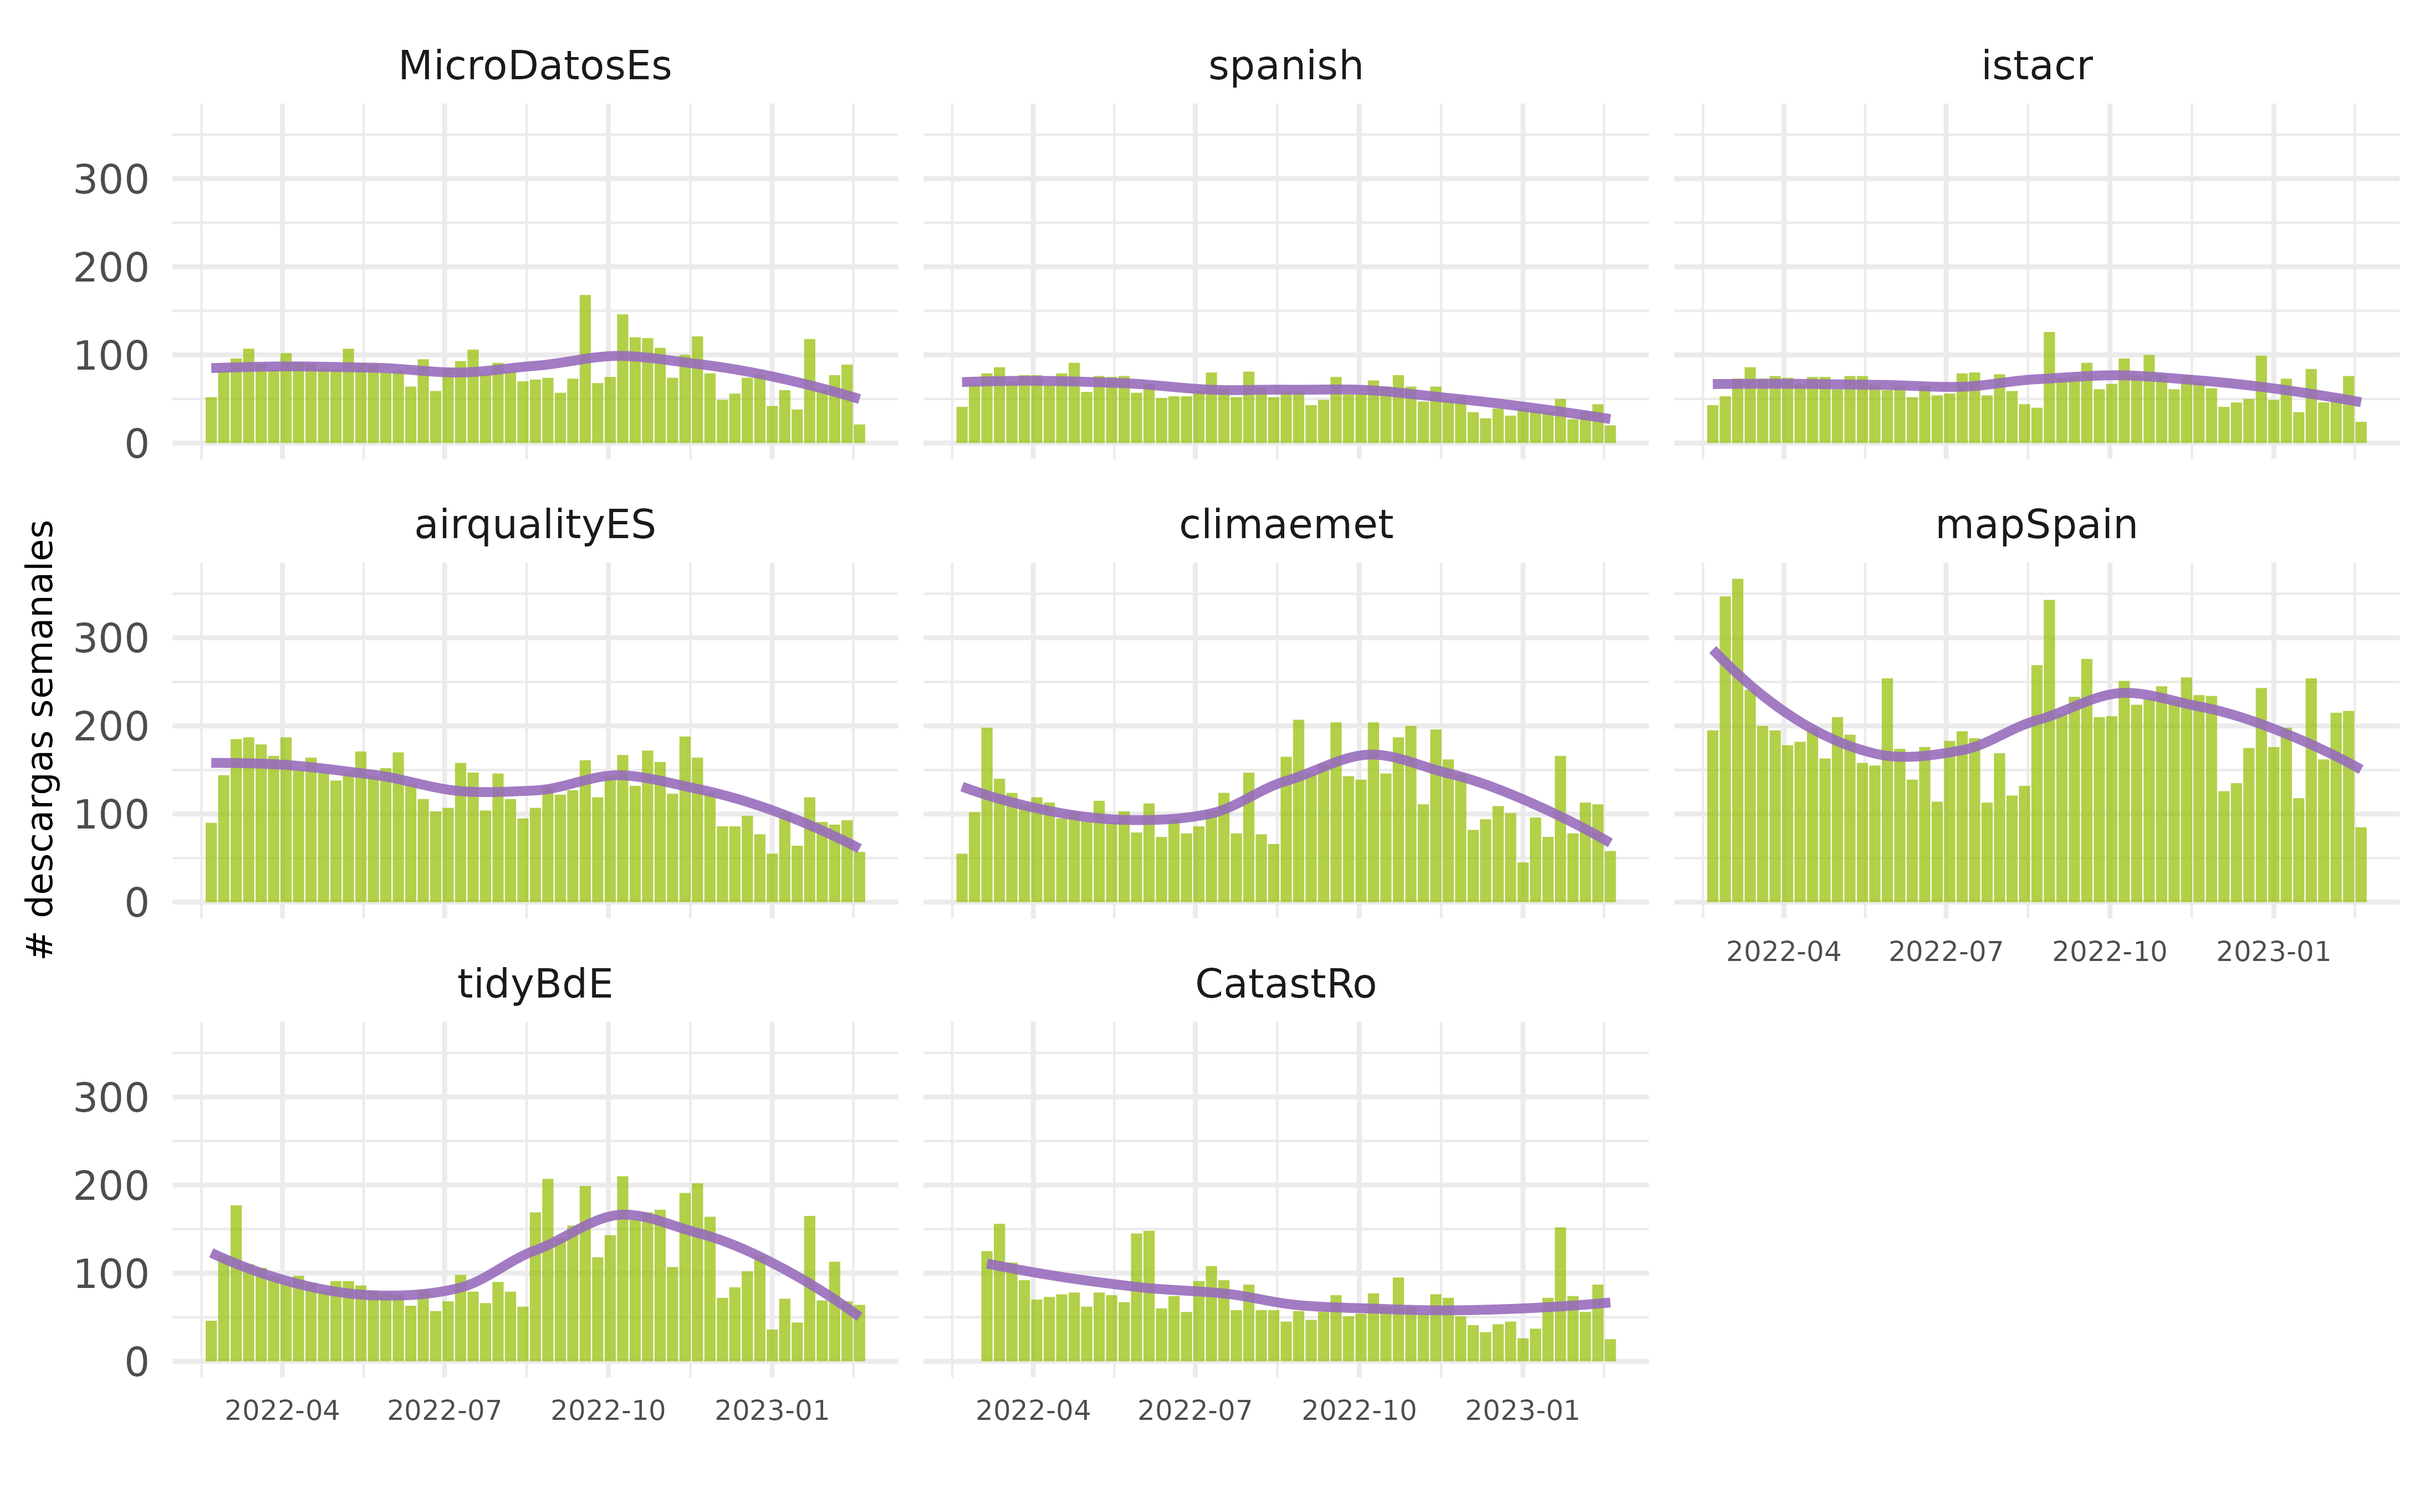
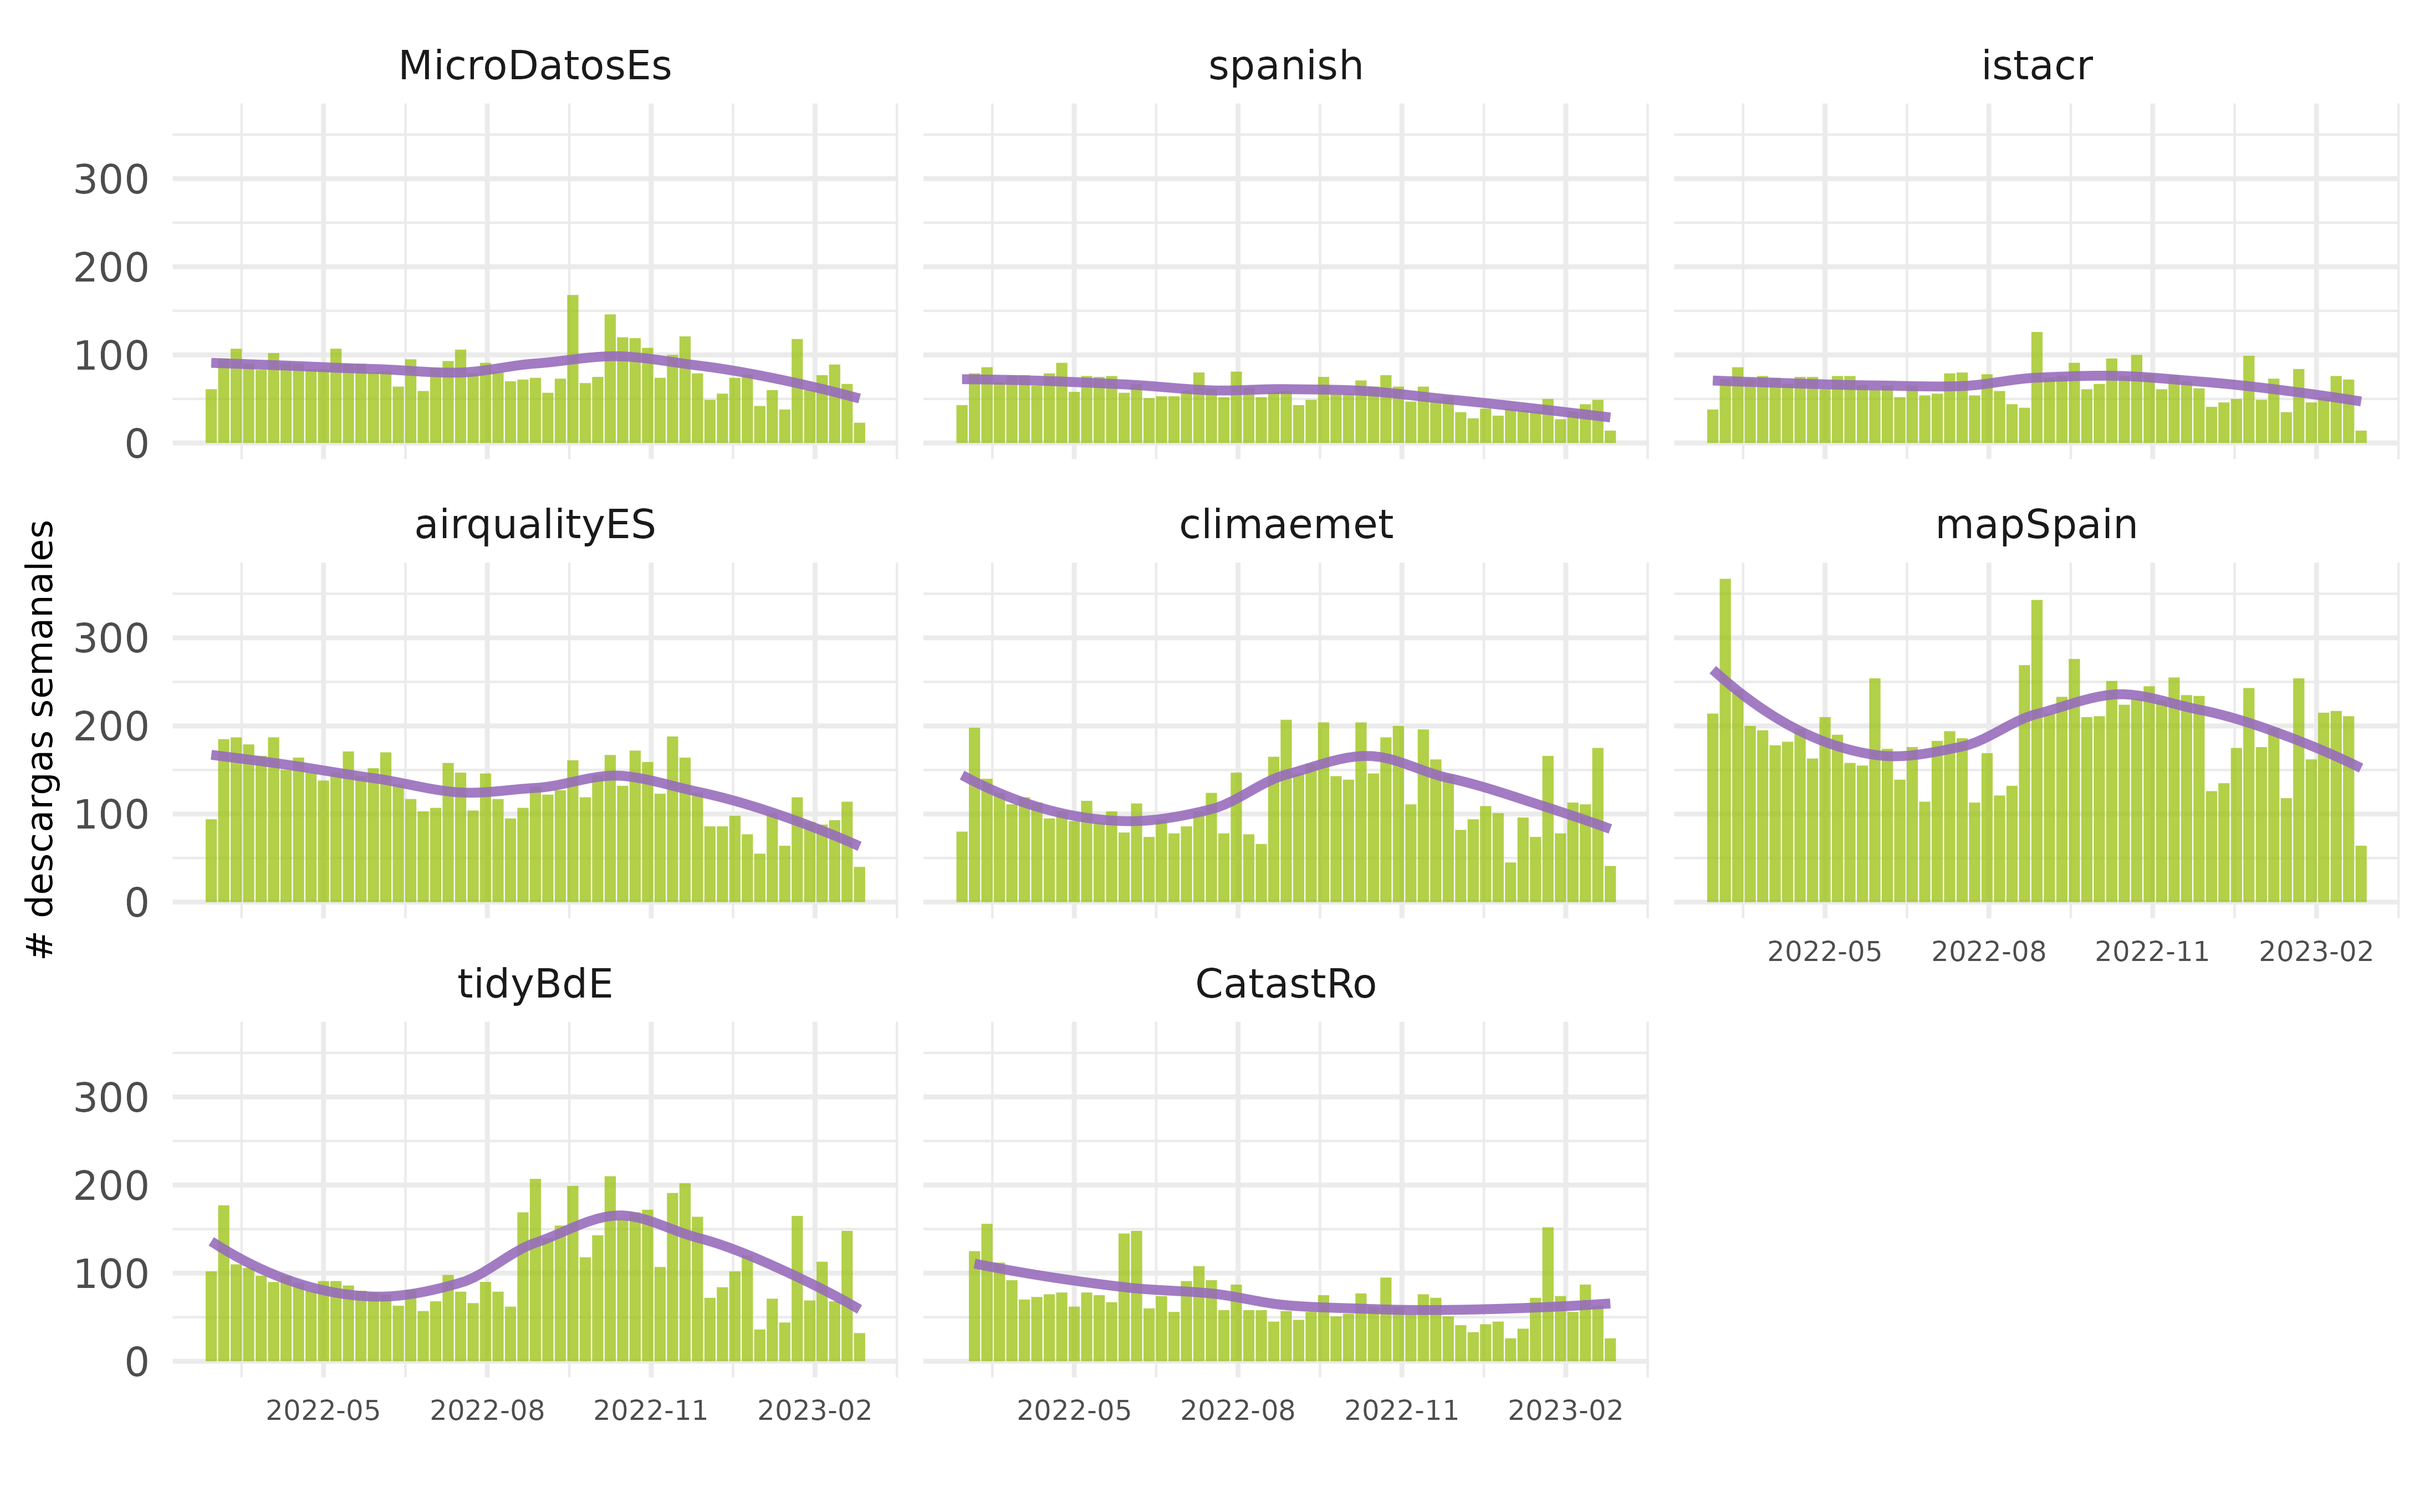
Built site for rostemplate: 0.1.1.9000@6539e0f

diff --git a/articles/descargas.html b/articles/descargas.html
@@ -101,7 +101,7 @@
 
     
     
-<p><em>Fecha de actualización: 16 Feb 2023</em></p>
+<p><em>Fecha de actualización: 23 Feb 2023</em></p>
 <p>Descargas de paquetes de rOpenSpain desde CRAN.</p>
 <div class="section level2">
 <h2 id="total-de-descargas">Total de descargas<a class="anchor" aria-label="anchor" href="#total-de-descargas"></a>
@@ -117,7 +117,7 @@
 <h2 id="datos">Datos<a class="anchor" aria-label="anchor" href="#datos"></a>
 </h2>
 <div class="reactable html-widget html-fill-item-overflow-hidden html-fill-item" id="station-table" style="width:auto;height:auto;"></div>
-<script type="application/json" data-for="station-table">{"x":{"tag":{"name":"Reactable","attribs":{"data":{"paquete":["CatastRo","tidyBdE","mapSpain","climaemet","airqualityES","istacr","spanish","MicroDatosEs"],"en CRAN":["2022-02-28","2021-04-08","2020-11-30","2020-07-07","2020-02-29","2019-04-24","2017-12-14","2013-10-21"],"media descargas diarias":[10.6,15.7,24.7,16.1,20.7,12.7,11.2,13.2],"ultimo dia":[14,51,53,43,30,12,7,8],"ultima semana":[59,91,192,97,92,51,39,65],"ultimo mes":[378,475,920,515,441,278,175,358],"ultimo año":[3722,5771,10697,6317,6903,3550,3052,4449]},"columns":[{"id":"paquete","name":"paquete","type":"character"},{"id":"en CRAN","name":"en CRAN","type":"Date"},{"id":"media descargas diarias","name":"media descargas diarias","type":"numeric"},{"id":"ultimo dia","name":"ultimo dia","type":"numeric"},{"id":"ultima semana","name":"ultima semana","type":"numeric"},{"id":"ultimo mes","name":"ultimo mes","type":"numeric"},{"id":"ultimo año","name":"ultimo año","type":"numeric"}],"filterable":true,"searchable":true,"showPageSizeOptions":true,"paginationType":"jump","striped":true,"elementId":"station-table","dataKey":"046b44ba7eaa4b396c06e983adf56692"},"children":[]},"class":"reactR_markup"},"evals":[],"jsHooks":[]}</script>
+<script type="application/json" data-for="station-table">{"x":{"tag":{"name":"Reactable","attribs":{"data":{"paquete":["CatastRo","tidyBdE","mapSpain","climaemet","airqualityES","istacr","spanish","MicroDatosEs"],"en CRAN":["2022-02-28","2021-04-08","2020-11-30","2020-07-07","2020-02-29","2019-04-24","2017-12-14","2013-10-21"],"media descargas diarias":[10.6,15.8,24.7,16.1,20.7,12.7,11.2,13.2],"ultimo dia":[12,11,26,15,18,5,9,8],"ultima semana":[49,85,154,123,70,41,27,50],"ultimo mes":[295,415,853,508,407,254,162,308],"ultimo año":[3786,5823,10559,6398,6860,3554,3030,4445]},"columns":[{"id":"paquete","name":"paquete","type":"character"},{"id":"en CRAN","name":"en CRAN","type":"Date"},{"id":"media descargas diarias","name":"media descargas diarias","type":"numeric"},{"id":"ultimo dia","name":"ultimo dia","type":"numeric"},{"id":"ultima semana","name":"ultima semana","type":"numeric"},{"id":"ultimo mes","name":"ultimo mes","type":"numeric"},{"id":"ultimo año","name":"ultimo año","type":"numeric"}],"filterable":true,"searchable":true,"showPageSizeOptions":true,"paginationType":"jump","striped":true,"elementId":"station-table","dataKey":"f96965e94a2827e0b9f1ee268b84e158"},"children":[]},"class":"reactR_markup"},"evals":[],"jsHooks":[]}</script>
 </div>
   </main><aside class="col-md-3"><nav id="toc"><h2>En esta página</h2>
     </nav></aside>
